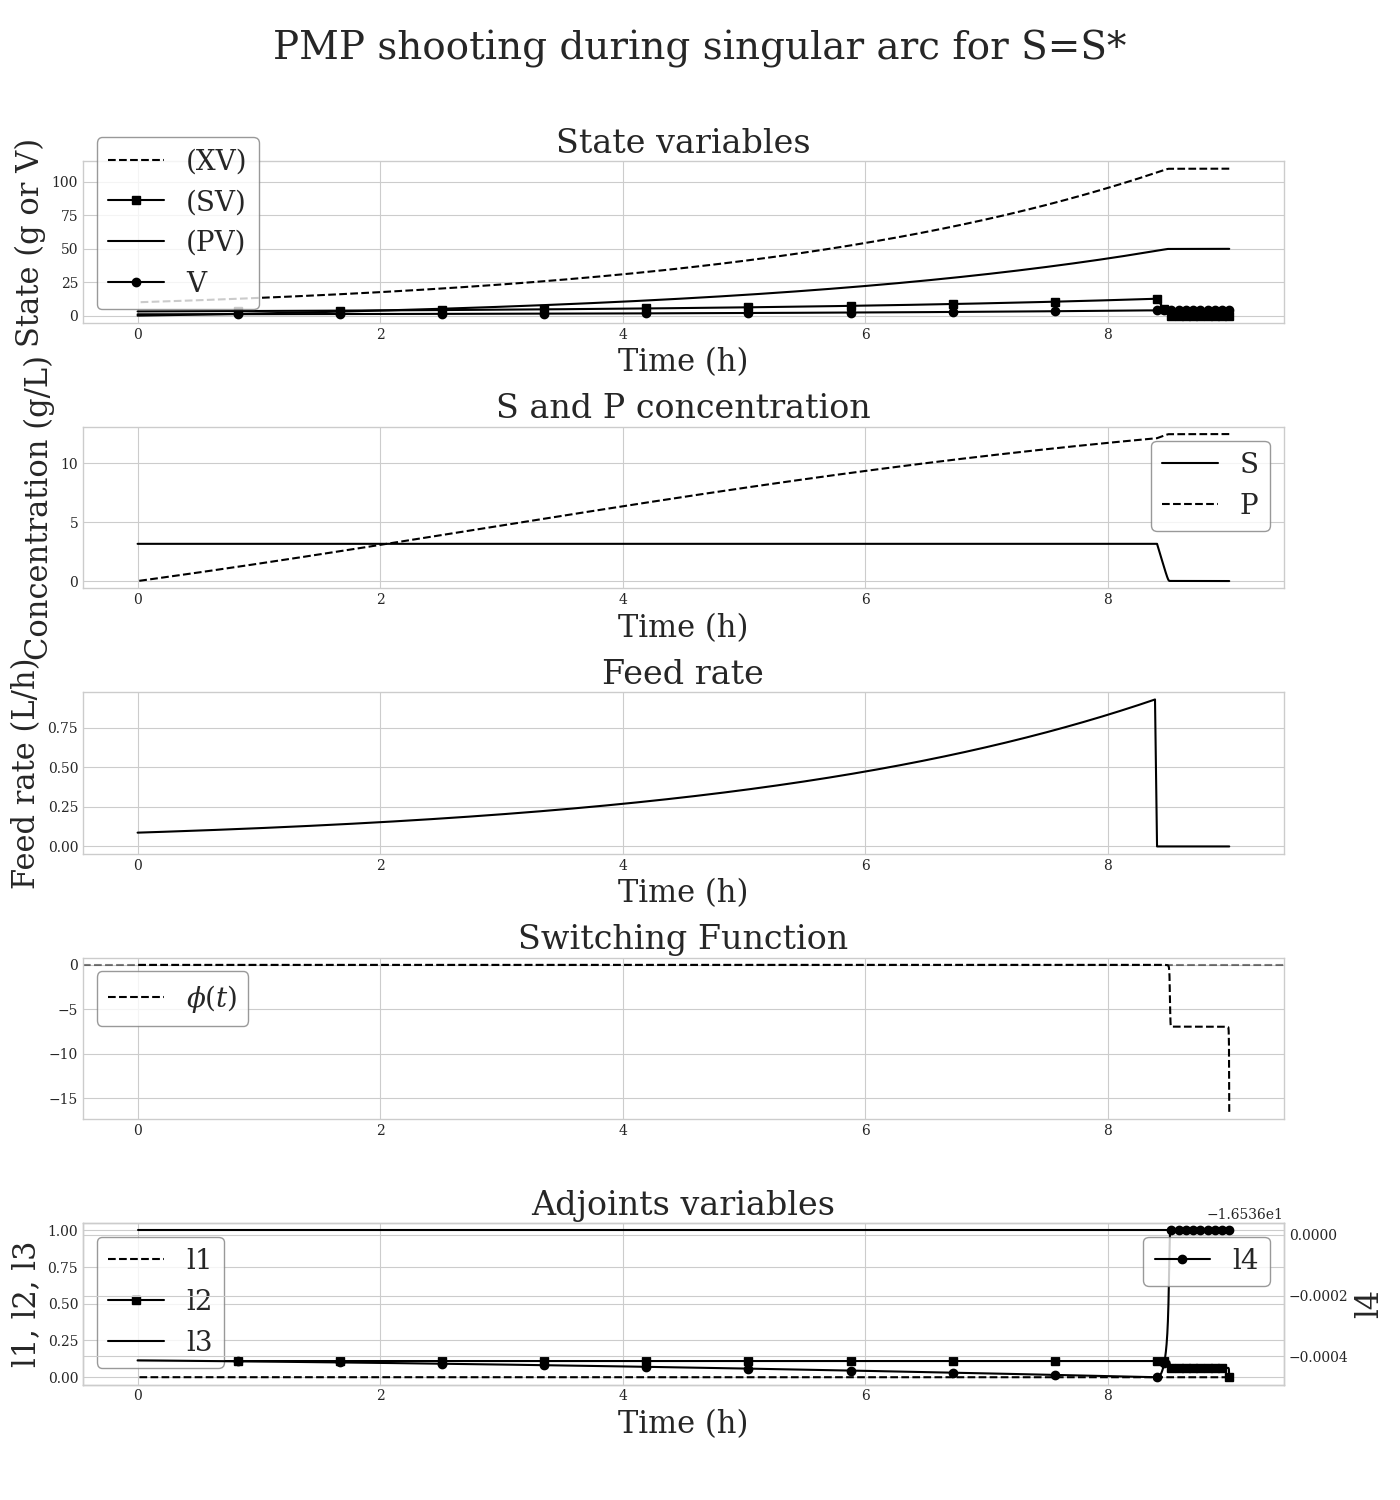
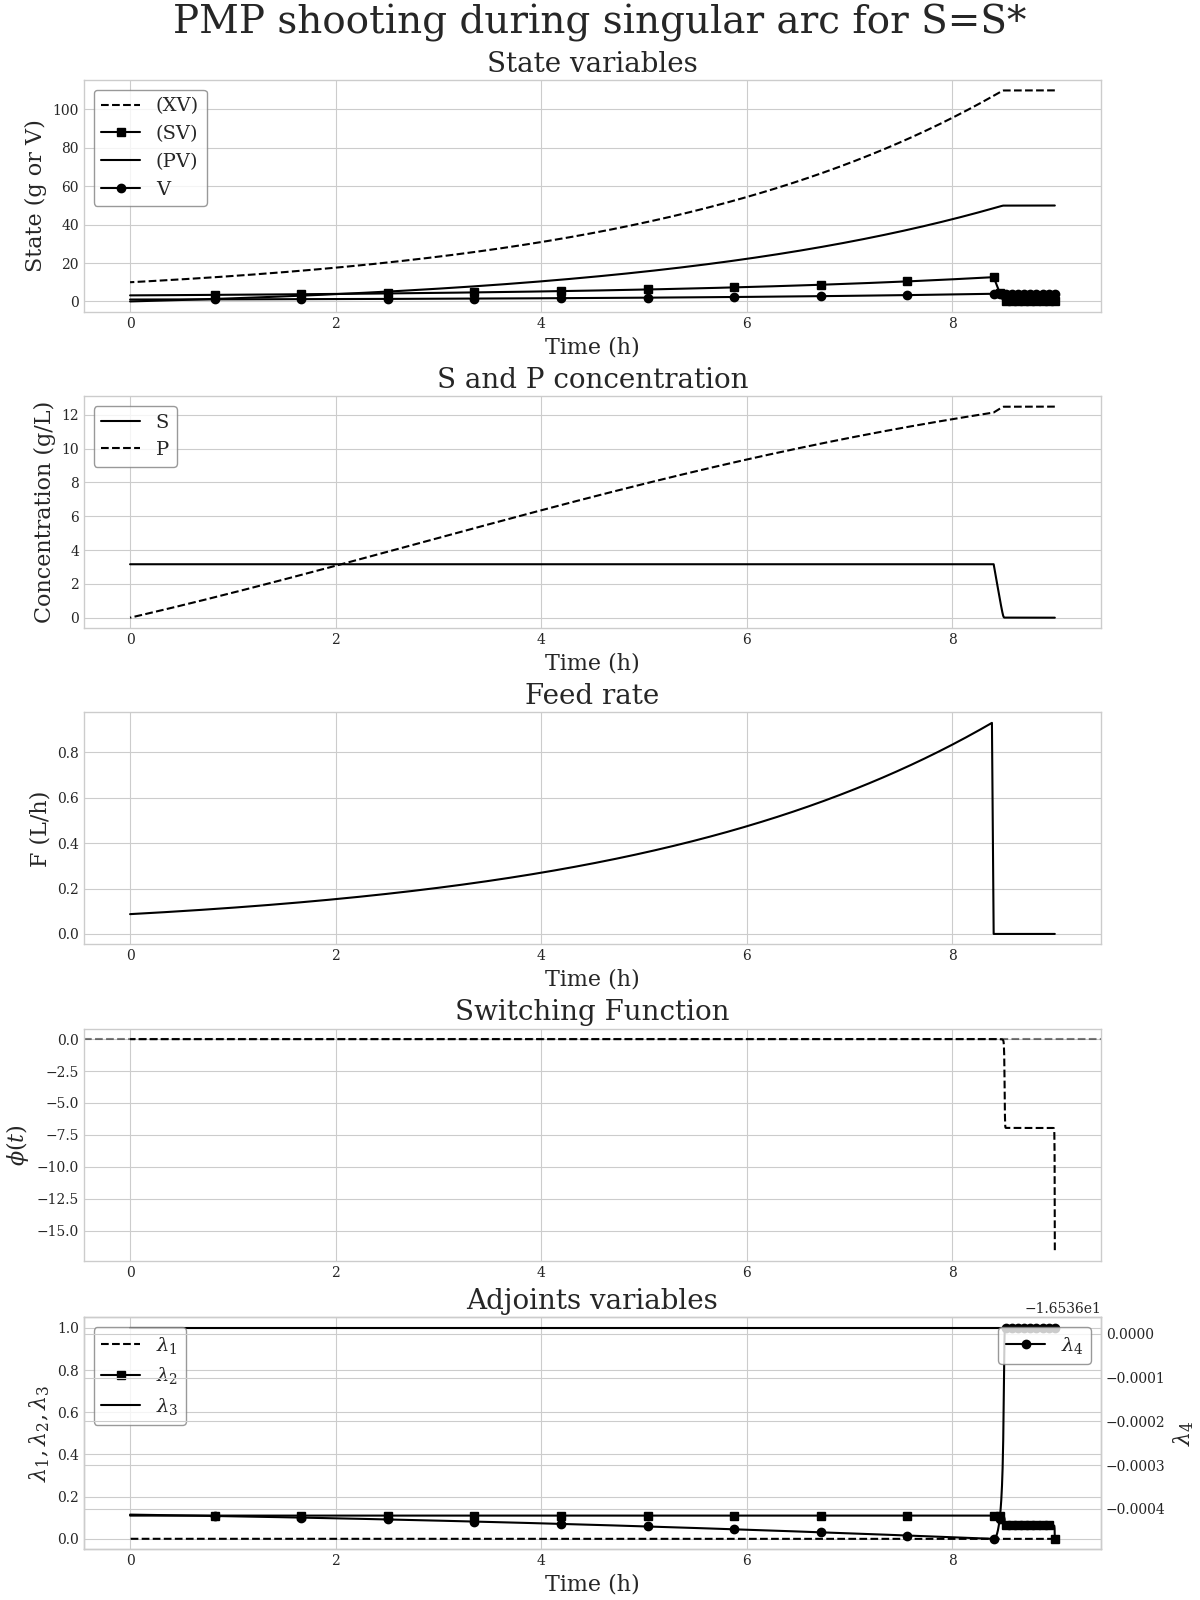
change plot config so it does not overlap

diff --git a/substrate_inhibition/singular_arc_and_batch/pmp_si_sing_and_batch.py b/substrate_inhibition/singular_arc_and_batch/pmp_si_sing_and_batch.py
@@ -123,14 +123,14 @@ if __name__ == "__main__":
         plt.style.use('seaborn-v0_8-whitegrid')
         plt.rcParams['font.family'] = 'serif'
         plt.rcParams['mathtext.fontset'] = 'dejavuserif'
-        plt.rcParams['axes.titlesize'] = 24
-        plt.rcParams['axes.labelsize'] = 22
-        plt.rcParams['legend.fontsize'] = 20
-        plt.rcParams['figure.titlesize'] = 26
+        plt.rcParams['axes.titlesize'] = 20
+        plt.rcParams['axes.labelsize'] = 16
+        plt.rcParams['legend.fontsize'] = 14
+        plt.rcParams['figure.titlesize'] = 12
         plt.rcParams['legend.frameon'] = True
         plt.rcParams['legend.facecolor'] = 'white'
         plt.rcParams['legend.edgecolor'] = 'gray'
-        fig, axes = plt.subplots(5, 1, figsize=(14, 15))
+        fig, axes = plt.subplots(5, 1, figsize=(12, 16), layout='constrained')
         fig.suptitle('PMP shooting during singular arc for S=S*', fontsize=28)
 
         # Plot State variables
@@ -161,24 +161,24 @@ if __name__ == "__main__":
             F_min
         )
         axes[2].plot(t_plot, F_plot, label='Feed Rate', color='black')
-        axes[2].set_ylabel('Feed rate (L/h)')
+        axes[2].set_ylabel('F (L/h)')
         axes[2].set_xlabel('Time (h)')
         axes[2].set_title('Feed rate')
         axes[2].grid(True)
 
-        axes[3].plot(t_plot, phi_plot, color='black', label=r'$\phi(t)$', linestyle = '--')
+        axes[3].plot(t_plot, phi_plot, color='black', label=r'$\phi(t)$ y', linestyle = '--')
         axes[3].axhline(0, color='black', linestyle='--', alpha=0.5)
         axes[3].set_title('Switching Function')
-        axes[3].legend()
+        axes[3].set_ylabel(r'$\phi(t)$')
 
         ax4 = axes[4]
         ax4b = ax4.twinx()
-        axes[4].plot(t_plot, y_plot[:,4], label='l1', color='black', linestyle='--')
-        axes[4].plot(t_plot, y_plot[:,5], label='l2', color='black', marker = 's', linestyle='-', markevery=50)
-        axes[4].plot(t_plot, y_plot[:,6], label='l3', color='black', linestyle='-')
-        ax4b.plot(t_plot, y_plot[:,7], label='l4', color='black', marker = 'o', linestyle='-', markevery=50)
-        axes[4].set_ylabel('l1, l2, l3')
-        ax4b.set_ylabel('l4')
+        axes[4].plot(t_plot, y_plot[:,4], label=r'$\lambda_1$', color='black', linestyle='--')
+        axes[4].plot(t_plot, y_plot[:,5], label=r'$\lambda_2$', color='black', marker = 's', linestyle='-', markevery=50)
+        axes[4].plot(t_plot, y_plot[:,6], label=r'$\lambda_3$', color='black', linestyle='-')
+        ax4b.plot(t_plot, y_plot[:,7], label=r'$\lambda_4$', color='black', marker = 'o', linestyle='-', markevery=50)
+        axes[4].set_ylabel(r'$\lambda_1, \lambda_2, \lambda_3$')
+        ax4b.set_ylabel(r'$\lambda_4$')
         axes[4].set_xlabel('Time (h)')
         axes[4].set_title('Adjoints variables')
         axes[4].grid(True)
@@ -190,7 +190,6 @@ if __name__ == "__main__":
         print("Final PV value", y_plot[-1, 2])
         print("Final V value", y_plot[-1, 3])
 
-        plt.tight_layout(rect=[0, 0.03, 1, 0.96])
         script_dir = os.path.dirname(os.path.abspath(__file__))
         file_name = "output_pmp_sing_and_batch.png"
         output_path = os.path.join(script_dir, file_name)
